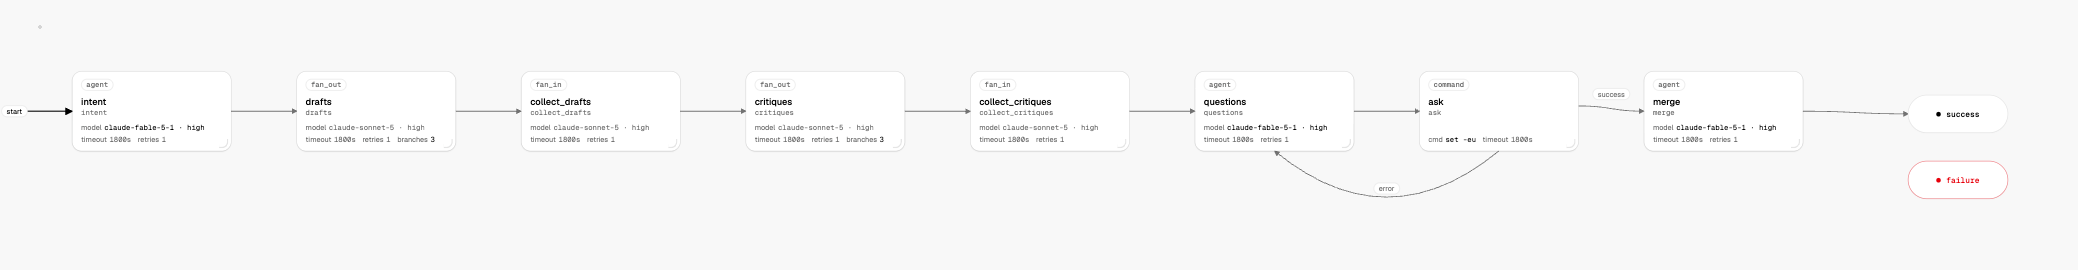
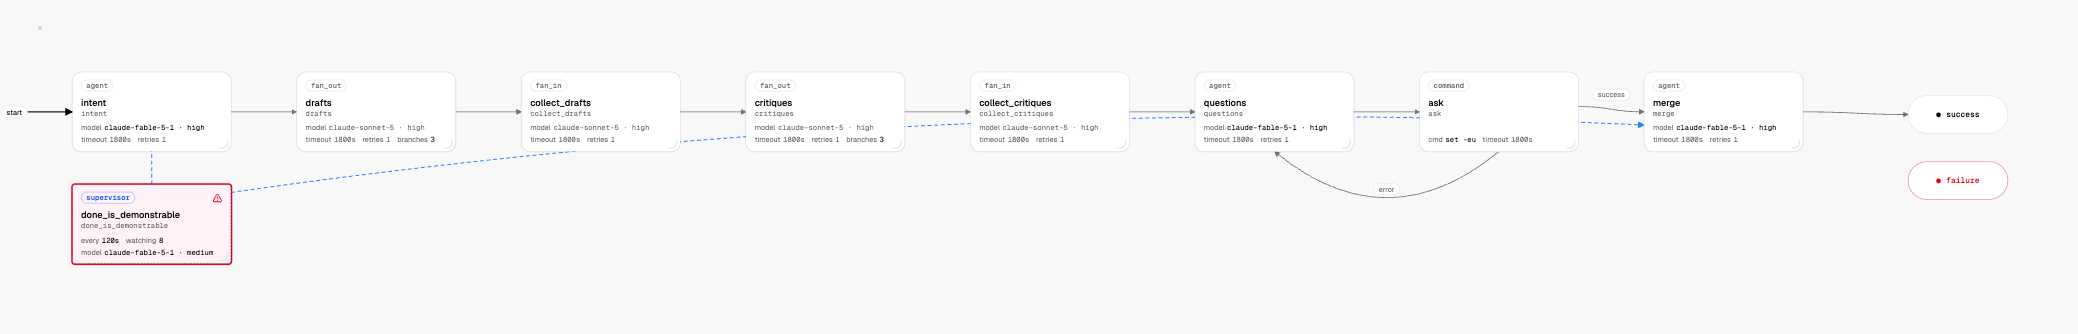
Decorate the proposed workflows with supervisors
Three supervisors, each named by the question it asks. One watches the coding
and validating agents for work nobody asked for. One watches the validating
agents for proof turning into a project of its own: proof is running the
software and recording what happened, not an ideal to be approached. One
watches the planners for definitions of done that are lists of commands
instead of behavior someone can watch.

diff --git a/examples/workflows/README.md b/examples/workflows/README.md
@@ -79,6 +79,42 @@ Per-gate specifics live in each gate item's command, so the graph does not
 need to know what any one promise measures. Non-fulfilment finishes the run
 with a verdict instead of looping until something passes.
 
+## Supervisors
+
+Each workflow carries supervisors, named by the question they ask. A supervisor
+runs on its own patrol clock outside the walk, sees the live snapshot and the
+attempt digests, and either says ok or steers one named target with a message
+delivered to it verbatim. Most patrols should be ok; a supervisor that steers
+every time is noise.
+
+**`serves_the_requirement`** watches the coding and validating agents for work
+nobody asked for: speculative fixes, hardening against conditions the
+requirement never mentions, edge cases outside the stated outcome, a second
+mechanism where one already works.
+
+**`proof_is_evidence`** watches the validating agents for proof becoming a
+project of its own. Proof means running the software and recording what
+happened. It is not an ideal to be approached and never reached, and it is not
+a reason to invent requirements the work never promised. The steer is always
+toward the concrete: run the thing, capture the output or the screenshot, say
+whether it worked.
+
+**`done_is_demonstrable`** watches the planning agents for definitions of done
+that are lists of commands. A definition of done that reads
+
+    run go test ./...
+    run golangci-lint run ./...
+    run lefthook run pre-commit
+
+says nothing about whether the feature exists. One that reads
+
+    Build the feature described in the goal document. Write the scenarios in
+    Gherkin, implement them, use them to demonstrate the feature in a real
+    browser, then collect screenshots and look at them to confirm the
+    behavior is correct.
+
+says what done looks like and leaves the route to the implementer.
+
 ## What they need that does not exist yet
 
 - `sprint-execute` and `chapter-loop` want ledgers as markdown with YAML
